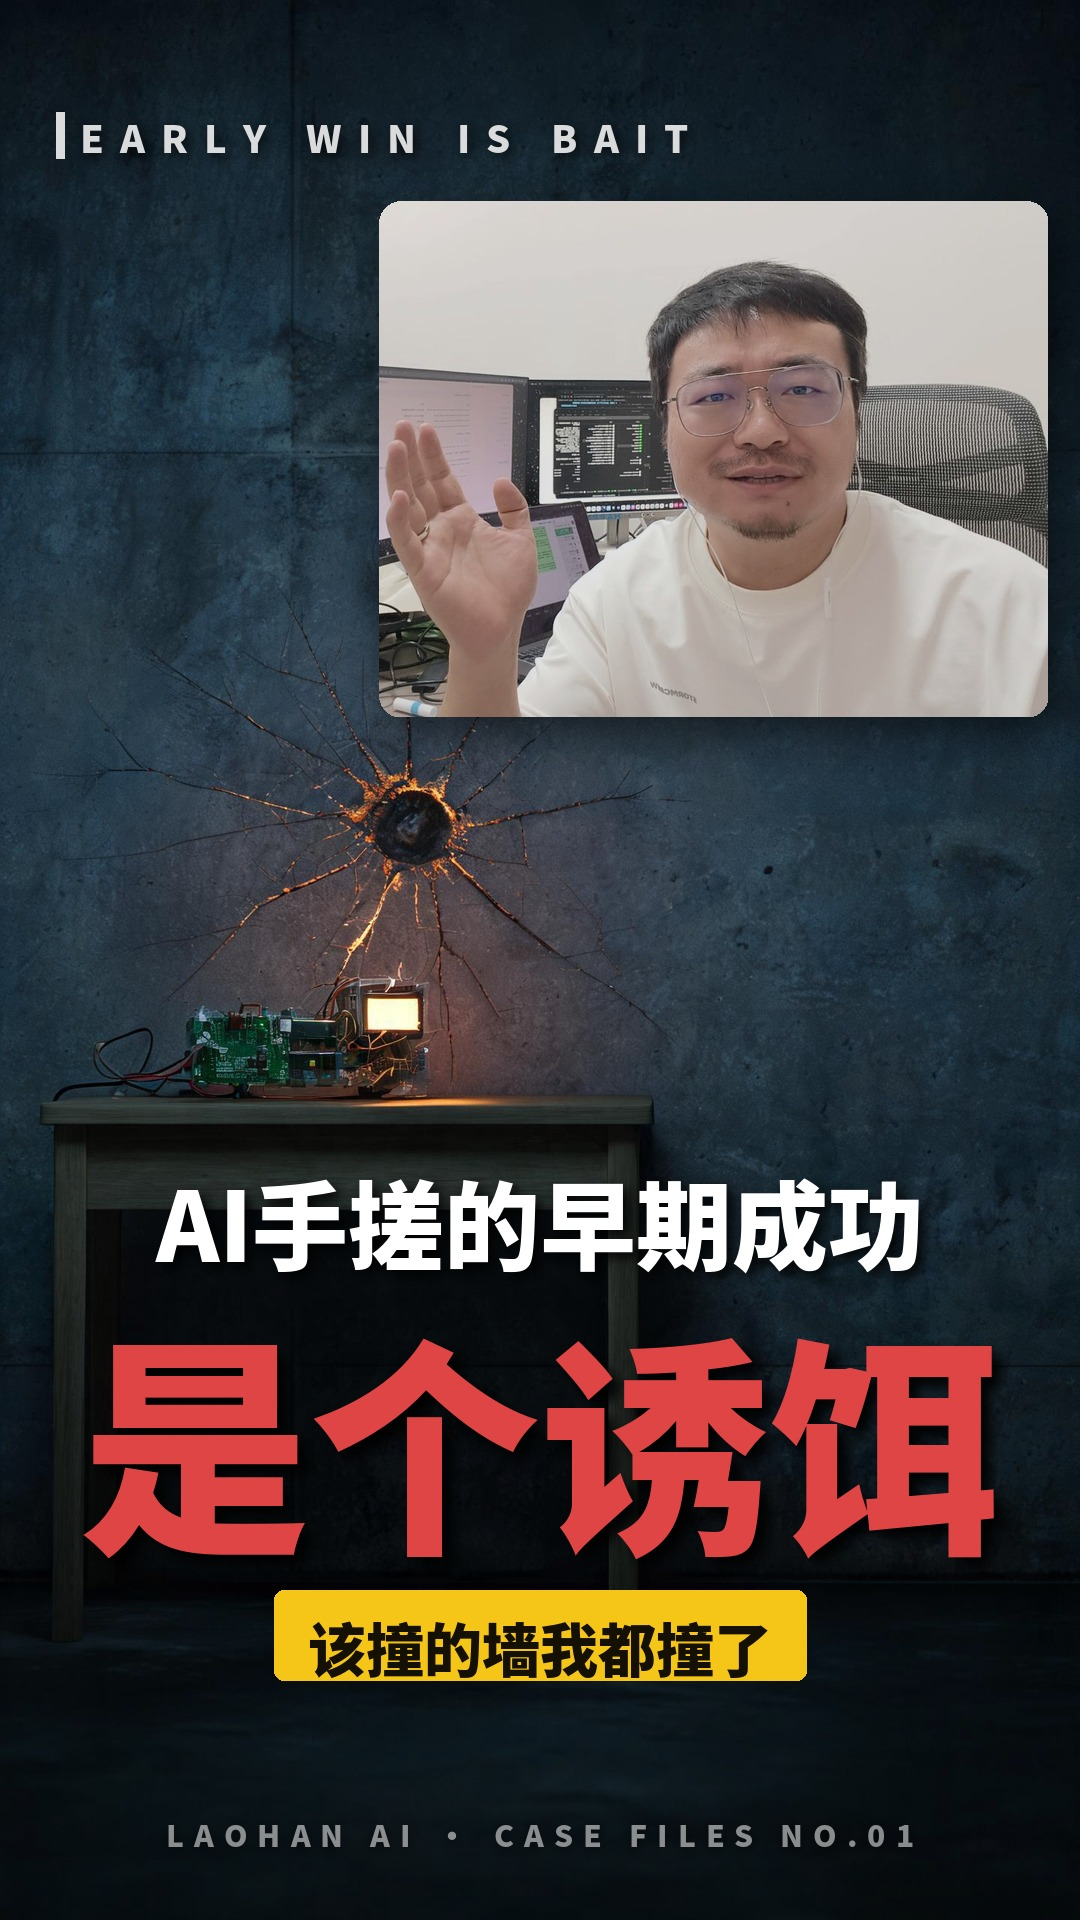
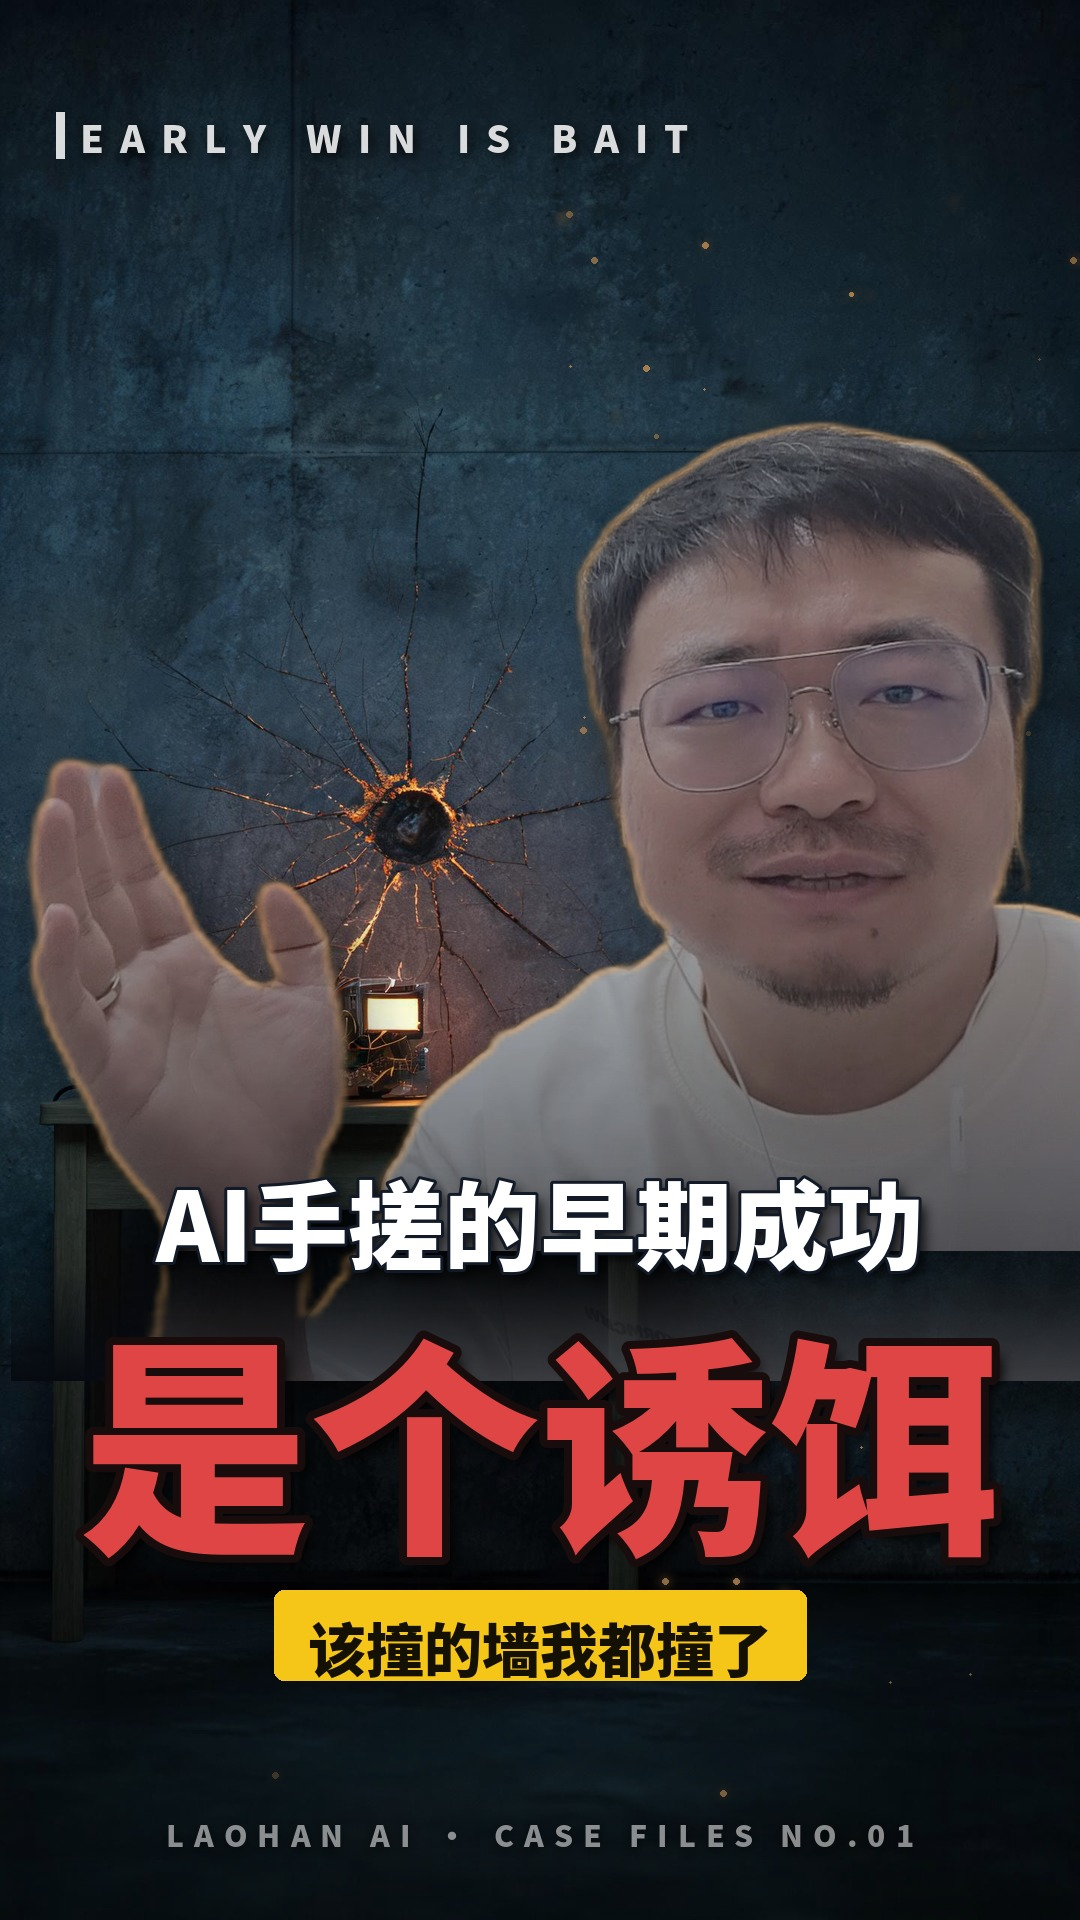
feat(laohan-fengmianzhuzige 4.1.0): 人物融入度专项——融入六法+integrated默认模式
- Jeffrey判定v4.0小窗照片块'像打补丁'：放大检视#68/#76/#78/#81提取融入六法入skill与study参考
- 三模式: integrated(默认,亮背景帧: 抠像+压暗调色+下半身渐变压暗+底部溶隐+暖rim勾边+剪影投影+脸锚点) / column(暗场环境照专用) / block_tr(快速兜底)
- build_cover.py: +integrated/column模式+氛围粒子前后双层+kicker/lead描边
- 实测: column模式亮墙翻车记录在案(亮背景素材禁带环境宽裁切)
- shoucuogongju样张v4.1重出,融入度达标

diff --git a/laohan-fengmianzhuzige/scripts/build_cover.py b/laohan-fengmianzhuzige/scripts/build_cover.py
@@ -76,14 +76,126 @@ def draw_tracked_rgba(layer, xy, text, font, fill, tracking=0, center_x=None):
 def text_width(d, text, font, tracking=0):
     return sum(d.textlength(c, font=font) + tracking for c in text) - (tracking if text else 0)
 
+def particles(layer, n, box, color, seed=7, glow=True):
+    """暖色氛围粒子：box=(x0,y0,x1,y1)区域内随机光斑"""
+    import random
+    from PIL import Image, ImageDraw, ImageFilter
+    rnd = random.Random(seed)
+    dot = Image.new("RGBA", layer.size, (0,0,0,0))
+    dd = ImageDraw.Draw(dot)
+    for _ in range(n):
+        x = rnd.randint(box[0], box[2]); y = rnd.randint(box[1], box[3])
+        r = rnd.randint(2, 7); a = rnd.randint(50, 160)
+        dd.ellipse([x-r, y-r, x+r, y+r], fill=color+(a,))
+    if glow:
+        dot = dot.filter(ImageFilter.GaussianBlur(6))
+    layer.alpha_composite(dot)
+    core = Image.new("RGBA", layer.size, (0,0,0,0))
+    dd2 = ImageDraw.Draw(core)
+    rnd2 = random.Random(seed)
+    for _ in range(n):
+        x = rnd2.randint(box[0], box[2]); y = rnd2.randint(box[1], box[3])
+        r = max(1, rnd2.randint(2, 7)//2); a = rnd2.randint(70, 190)
+        dd2.ellipse([x-r, y-r, x+r, y+r], fill=color+(a,))
+    layer.alpha_composite(core)
+
 def build(brief: dict, bg_path: str, cut_path: str, out_path: str):
     from PIL import Image, ImageDraw, ImageFilter, ImageEnhance
     # 画布 = 背景板
     bg = Image.open(bg_path).convert("RGB").resize((W, H), Image.LANCZOS)
     canvas = bg.convert("RGBA")
+    atmo = brief.get("atmosphere", {})
+    if atmo:
+        # 背景层粒子（人物后面）
+        for grp in atmo.get("behind_person", []):
+            particles(canvas, grp["n"], grp["box"], tuple(grp["color"]), seed=grp.get("seed",7))
 
     # 层2 真人（两种模式）
-    if brief.get("person_mode") == "block_tr":
+    if brief.get("person_mode") == "integrated":
+        # 融入模式（亮背景素材解法）：抠像+压暗调色+暖光勾边+底部溶隐+投影落地
+        # 人物右位移脸让场景呼吸，文字压下身形成深度三明治——不依赖环境暗场
+        person = Image.open(cut_path).convert("RGBA")
+        ph = int(H * brief.get("integrated_height", 0.535))
+        s = ph / person.height
+        pw = int(person.width * s)
+        person = person.resize((pw, ph), Image.LANCZOS)
+        # 调色：压暗+降饱和+冷色罩，让真人进入场景色温
+        rgb = person.convert("RGB")
+        rgb = ImageEnhance.Brightness(rgb).enhance(brief.get("integrated_brightness", 0.84))
+        rgb = ImageEnhance.Color(rgb).enhance(brief.get("integrated_saturation", 0.86))
+        tint = Image.new("RGB", rgb.size, tuple(brief.get("integrated_tint", [40,54,78])))
+        rgb = Image.composite(tint, rgb, Image.new("L", rgb.size, int(255*brief.get("integrated_tint_alpha", 0.22))))
+        # 下半身渐变压暗：躯干坐进场景黑暗（脸保持最亮主体）
+        dk_from = brief.get("integrated_darken_from", 0.55)
+        dk_to = brief.get("integrated_darken_min", 0.45)
+        dark = Image.new("L", rgb.size, 255)
+        dd = ImageDraw.Draw(dark)
+        for i in range(int(ph*dk_from), ph):
+            f = (i - ph*dk_from) / (ph*(1-dk_from))
+            dd.line([(0,i),(pw,i)], fill=int(255*(1 - f*(1-dk_to))))
+        dark = dark.filter(ImageFilter.GaussianBlur(40))
+        rgb = Image.composite(Image.new("RGB", rgb.size, (8,12,20)), rgb, dark.point(lambda v: 255-v))
+        person = Image.merge("RGBA", (*rgb.split(), person.getchannel("A")))
+        a = person.getchannel("A")
+        # 底部溶隐（ torso 底边溶进黑暗，避免"切断漂浮"感）
+        fade = brief.get("integrated_bottom_fade", 130)
+        if fade > 0:
+            fa = a.copy(); fd = ImageDraw.Draw(fa)
+            for i in range(fade):
+                fd.line([(0, ph-1-i), (pw, ph-1-i)], fill=int(255*(1-i/fade)**1.5))
+            person.putalpha(fa)
+        # 定位：脸部中心锚点（integration_face_x=脸中心目标x，face_top=脸顶目标y）
+        fx = brief.get("integrated_face_x", 0.77)   # 脸中心在抠像宽度中的占比
+        px = int(W * brief.get("integrated_face_target_x", 0.77) - fx * pw)
+        fty = brief.get("integrated_face_top_frac", 0.01)
+        py = int(H * brief.get("integrated_face_top", 0.22) - fty * ph)
+        # 身后投影（剪影模糊右下偏移=落地感）
+        sh = Image.new("RGBA", (W, H), (0,0,0,0))
+        sil = Image.new("RGBA", (pw, ph), (0,0,0,0))
+        sil.paste((0,0,0,170), (0,0), a)
+        sh.paste(sil, (px+26, py+30), sil)
+        sh = sh.filter(ImageFilter.GaussianBlur(30))
+        canvas.alpha_composite(sh)
+        # 暖光勾边：alpha内缘染暖色（裂纹光在左→光从左来）
+        from PIL import ImageChops
+        er = a.filter(ImageFilter.MinFilter(11))
+        band = ImageChops.subtract(a, er)
+        rim = Image.new("RGBA", (pw, ph), (255,178,94,0))
+        rim.putalpha(band.point(lambda v: int(v*brief.get("integrated_rim_alpha", 0.55))))
+        person = Image.alpha_composite(person, rim)
+        canvas.alpha_composite(person, (max(px,-pw), max(py,-ph)))
+    elif brief.get("person_mode") == "column":
+        # 柱式人物区（后期统一风格主模式，融入度最高）：带真实环境的整柱照片，
+        # 边缘渐变羽化溶进海报底，统一压暗调色——柱子哥#76/#78式，无硬矩形边
+        frame = Image.open(brief["person_frame"]).convert("RGB")
+        cx, cy, cw, ch = brief["person_column"]  # 源帧裁区
+        crop = frame.crop((cx, cy, cx+cw, cy+ch))
+        ph = int(H * brief.get("column_height", 0.75))
+        s = ph / ch
+        pw = int(cw * s)
+        crop = crop.resize((pw, ph), Image.LANCZOS)
+        crop = ImageEnhance.Brightness(crop).enhance(brief.get("column_brightness", 0.80))
+        crop = ImageEnhance.Color(crop).enhance(brief.get("column_saturation", 0.86))
+        tint = Image.new("RGB", crop.size, tuple(brief.get("column_tint", [40,54,78])))
+        crop = Image.composite(tint, crop, Image.new("L", crop.size, int(255*brief.get("column_tint_alpha", 0.26))))
+        px = W - pw - int(W * brief.get("person_right_margin", 0.0))
+        py = int(H * brief.get("column_top", 0.10))
+        # 边缘羽化：只羽化真正落在画布内的边（被裁掉的边不用管）
+        mask = Image.new("L", (pw, ph), 255)
+        md = ImageDraw.Draw(mask)
+        F = int(brief.get("column_feather", 90))
+        for edge, visible in (("l", px > 0), ("r", px+pw < W), ("t", py > 0), ("b", py+ph < H)):
+            if not visible: continue
+            for i in range(F):
+                a = int(255 * i / F)
+                if edge=="l": md.line([(i,0),(i,ph)], fill=a)
+                elif edge=="r": md.line([(pw-1-i,0),(pw-1-i,ph)], fill=a)
+                elif edge=="t": md.line([(0,i),(pw,i)], fill=a)
+                else: md.line([(0,ph-1-i),(pw,ph-1-i)], fill=a)
+        mask = mask.filter(ImageFilter.GaussianBlur(10))
+        pl = crop.convert("RGBA"); pl.putalpha(mask)
+        canvas.alpha_composite(pl, (max(px,-pw), max(py,-ph)))
+    elif brief.get("person_mode") == "block_tr":
         # 右上角矩形照片块（柱子哥#81式）：从原帧裁块，圆角+投影
         from PIL import ImageDraw as _ID
         frame = Image.open(brief["person_frame"]).convert("RGB")
@@ -123,6 +235,11 @@ def build(brief: dict, bg_path: str, cut_path: str, out_path: str):
         canvas = canvas.convert("RGBA")
         canvas.alpha_composite(person, (max(0, px), max(0, py)))
 
+    # 前景粒子（人物前面，深度三明治）
+    if atmo:
+        for grp in atmo.get("front_person", []):
+            particles(canvas, grp["n"], grp["box"], tuple(grp["color"]), seed=grp.get("seed",11))
+
     # 文字区压暗渐变（下半屏 scrim，保证字可读）
     scrim = Image.new("RGBA", (W, H), (0,0,0,0))
     dsc = ImageDraw.Draw(scrim)
@@ -151,15 +268,17 @@ def build(brief: dict, bg_path: str, cut_path: str, out_path: str):
     lw = text_width(dt, t["lead"], f_lead)
     lead_y = t.get("lead_y", 1150)
     dts.text((W/2-lw/2+6, lead_y+6), t["lead"], font=f_lead, fill=(0,0,0,230))
-    dt.text((W/2-lw/2, lead_y), t["lead"], font=f_lead, fill=(255,255,255,255))
+    dt.text((W/2-lw/2, lead_y), t["lead"], font=f_lead, fill=(255,255,255,255),
+            stroke_width=t.get("lead_stroke", 3), stroke_fill=(18,26,40,255))
 
-    # kicker（特大语义色）
+    # kicker（特大语义色+描边）
     f_kick = _font(t.get("kicker_size", 225))
     kw = text_width(dt, t["kicker"], f_kick)
     kick_y = t.get("kicker_y", 1275)
     col = COLORS.get(t.get("kicker_color","gold"), GOLD)
     dts.text((W/2-kw/2+10, kick_y+10), t["kicker"], font=f_kick, fill=(0,0,0,235))
-    dt.text((W/2-kw/2, kick_y), t["kicker"], font=f_kick, fill=col)
+    dt.text((W/2-kw/2, kick_y), t["kicker"], font=f_kick, fill=col,
+            stroke_width=t.get("kicker_stroke", 8), stroke_fill=(24,12,12,255))
 
     # 高亮条（黄底黑字）
     if t.get("bar"):

diff --git a/laohan-fengmianzhuzige/references/zhuzige-cover-study.md b/laohan-fengmianzhuzige/references/zhuzige-cover-study.md
@@ -34,3 +34,16 @@
 - 95张真实封面100%为海报式设计：真实人物一致性形象+主题场景+中文大标题（2-8字语义色）+英文眉题。版式以电影海报式为主流，数字冲击/证据墙/悬念式为辅。
 - 封面与选题强绑定：麦收→麦田、宇树→机器人、美股→K线、向量降价→云桶——场景即选题的视觉化。
 - 覆盖全时期一致（2025-03首期至2026-09最新），证明是稳定打法而非阶段性实验。
+
+## 2026-09-20 人物融入度专项（后期统一风格4张3x放大逐张检视：#68/#76/#78/#81）
+
+Jeffrey判定v4.0小窗照片块"像打补丁没融入度"后，放大检视其后期封面提取**融入六法**：
+
+1. **柱式人物区**：人物占右列40-55%宽、近全高（头顶距顶10-15%、躯干裁出画底），绝不小窗悬浮；
+2. **自带环境**：其照片裁切带真实房间（椅子/窗帘/台灯），环境提供物理落地感——**前提是他的房间是暗场+实用灯**；
+3. **暗场溶接**：照片层自身背景够暗，边缘渐变溶解进海报底，无硬矩形边；亮背景素材走不通此路（亮墙会放大成主画面，v4.0→v4.1实测翻车）；
+4. **统一调色**：人物与背景同明度结构（全暗），色相向场景色温偏移；脸保持全画布最亮主体；
+5. **深度三明治**：背景场景→真人层→标题文字（文字压人物下身）→前景粒子/烟雾，四层纵深；
+6. **全域分工**：左=主题物件层、右=人物柱、顶=眉题/brand、底=标题栈、空隙=粒子/烟雾/光斑——无空白墙。
+
+**亮背景素材解法（v4.1 integrated模式，shoucuogongju样张验证）**：抠像→压暗0.84+降饱和0.86+冷色罩0.22→下半身渐变压暗(0.55起降至0.4)→底部130px alpha溶隐→暖rim勾边(0.4，色=背景光源)→剪影投影→脸锚点(0.77, 0.22)——融入靠调色+光+文字压身实现，不依赖环境。
